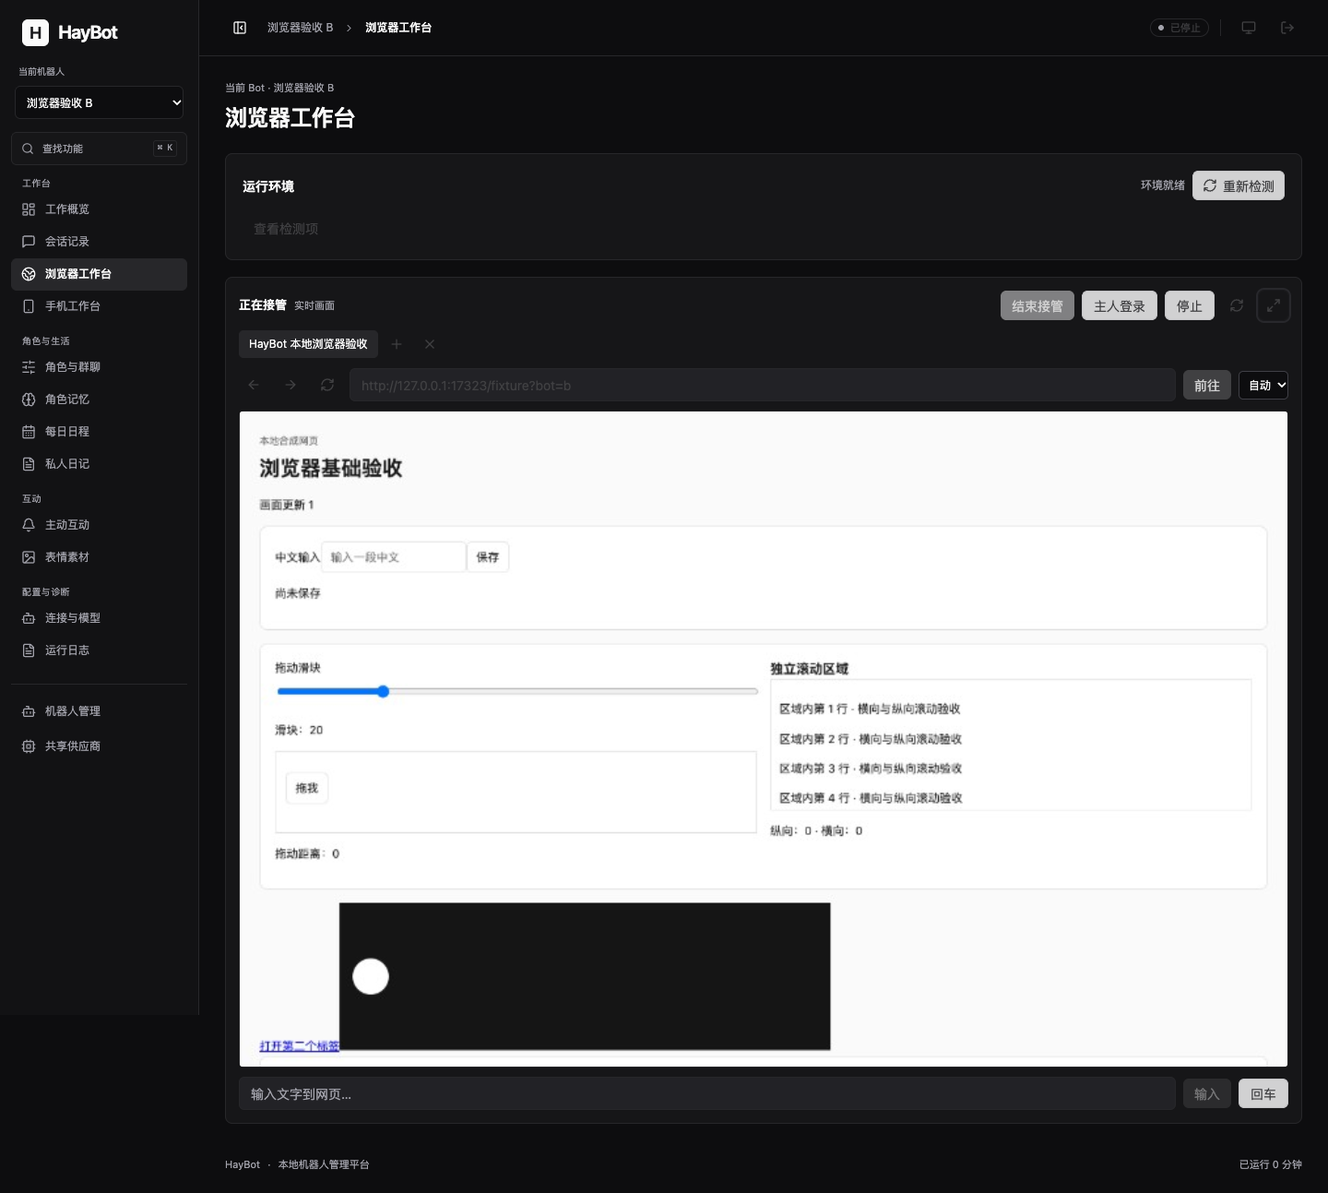
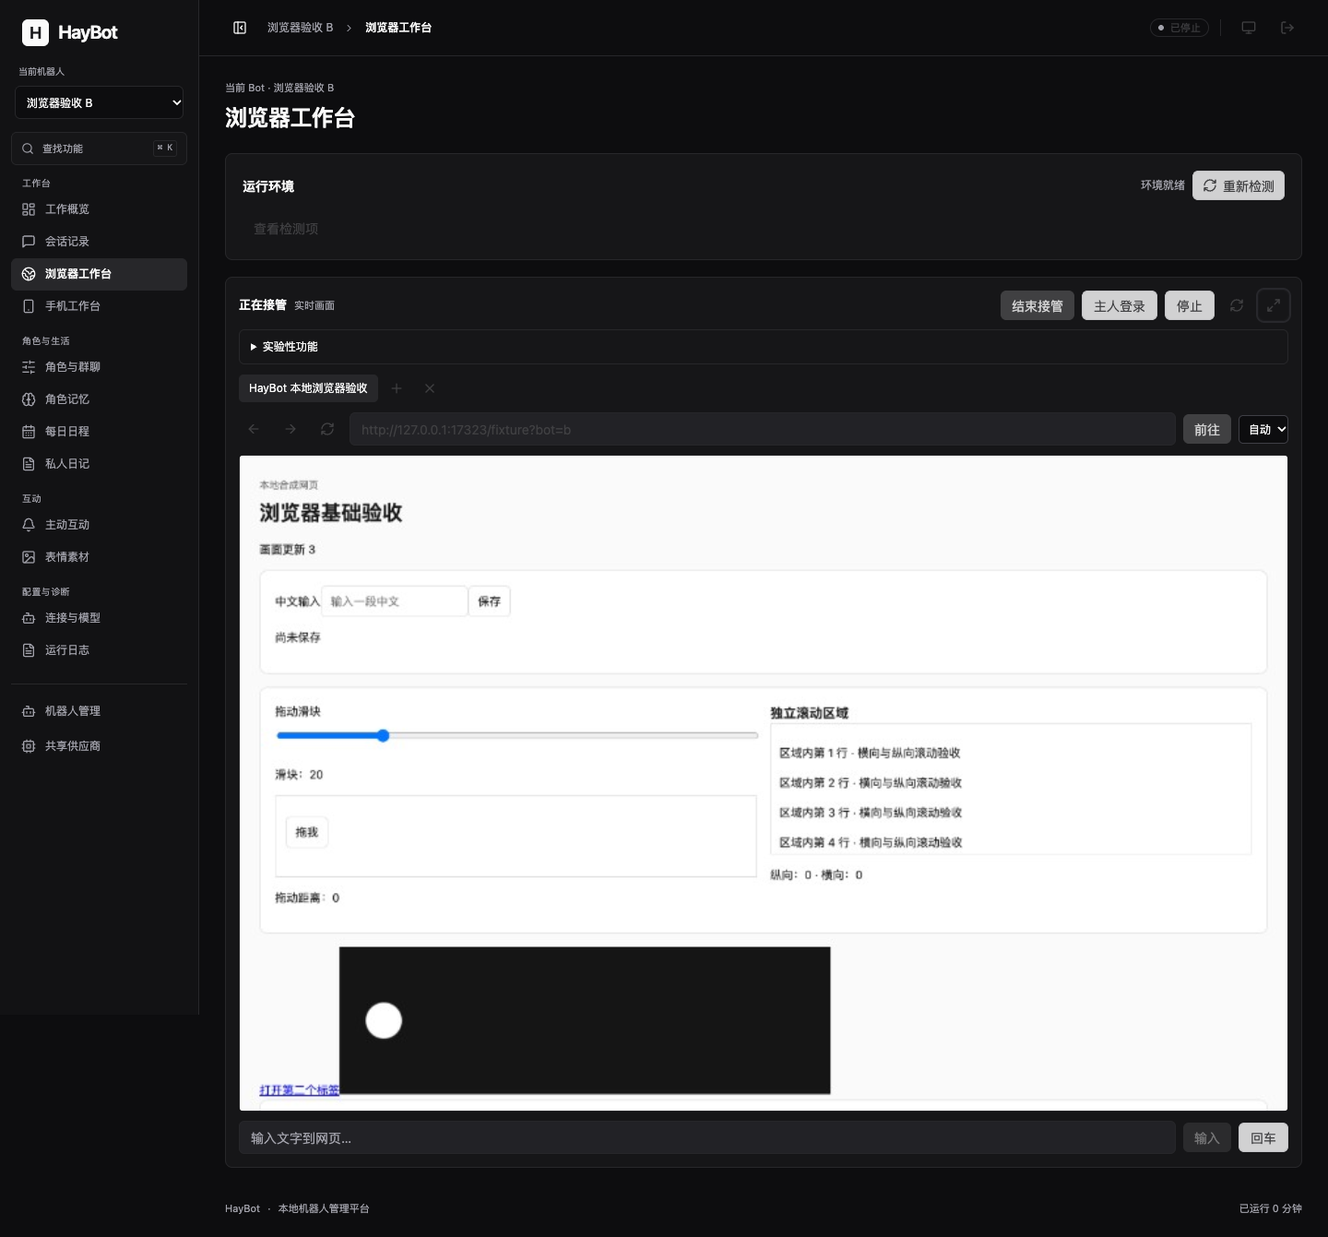
feat(browser): default to headed Chrome with experimental headless consent

diff --git a/frontend/src/BrowserViewer.jsx b/frontend/src/BrowserViewer.jsx
@@ -3,13 +3,14 @@ import { ArrowLeft, ArrowRight, Maximize2, Minimize2, Plus, RefreshCw, X } from 
 import { Dialog } from 'radix-ui'
 import { Button } from '@/components/ui/button'
 import { Input } from '@/components/ui/input'
+import { Switch } from '@/components/ui/switch'
 import { createBrowserSession } from './lib/browser-session'
 
 const initial = { state: { state: 'stopped', tabs: [] }, owned: false, busy: false, connected: false, canControl: false, stream: '浏览器已停止' }
 
 export default function BrowserViewer({ api, botId, ready, notify }) {
   const canvas = useRef(null), mode = useRef(null), controller = useRef(null), expandButton = useRef(null)
-  const [view, setView] = useState(initial), [expanded, setExpanded] = useState(false), [address, setAddress] = useState(''), [text, setText] = useState(''), [loginConfirm, setLoginConfirm] = useState(false)
+  const [view, setView] = useState(initial), [expanded, setExpanded] = useState(false), [address, setAddress] = useState(''), [text, setText] = useState(''), [loginConfirm, setLoginConfirm] = useState(false), [headlessConfirm, setHeadlessConfirm] = useState(false)
   const { state, owned, connected, canControl, busy, stream } = view
   const active = state.state !== 'stopped'
   useEffect(() => {
@@ -45,6 +46,12 @@ export default function BrowserViewer({ api, botId, ready, notify }) {
       <Button size="icon-sm" variant="ghost" disabled={busy || !active} aria-label="重新连接画面" onClick={() => controller.current.reconnect()}><RefreshCw size={15}/></Button>
       <Button ref={expandButton} size="icon-sm" variant="ghost" disabled={!active && !expanded} aria-label={expanded ? '收起画面' : '放大画面'} onClick={() => { controller.current.cancel(); setExpanded(v => !v) }}>{expanded ? <Minimize2 size={16}/> : <Maximize2 size={16}/>}</Button>
     </div></div>
+    <details className="browser-experiments"><summary>实验性功能{state.options?.headless ? ' · 无头模式已开启' : ''}</summary>
+      <div className="browser-experiment-option"><label htmlFor={`headless-${botId}`}>无头模式（headless）</label><Switch id={`headless-${botId}`} checked={!!state.options?.headless} disabled={busy || active} onCheckedChange={value => value ? setHeadlessConfirm(true) : controller.current.configure({ headless: false })}/></div>
+      <p>默认关闭，使用普通 Chrome，可能显示浏览器窗口及任务栏或 Dock 图标。开启后隐藏浏览器窗口；两种模式均保留实时查看、放大和接管。</p>
+      <p>无头模式可能导致网站访问异常、额外登录验证或风控拦截，不能保证解决小红书 300012。{active ? '请先停止浏览器，再切换模式。' : '设置按 Bot 保存，下次启动生效。'}切换保留登录资料，不自动更改 UA 或设备指纹。</p>
+    </details>
+    {state.access_issue?.code === '300012' && <div className="browser-access-issue" role="alert"><b>小红书访问异常 · 300012</b><p>{state.access_issue.message}</p><p>{state.options?.headless ? '当前已开启实验性无头模式，可停止浏览器后关闭该选项，再手动检查；切换模式不保证解除拦截。' : '当前已使用普通模式。请先排查网络或稍后再试，避免连续刷新和反复登录。'}</p></div>}
     {state.owner_login && <p className="browser-login-notice">登录隔离已开启。模型无法读取页面；关闭画面或停止浏览器后仍保持隔离，完成登录后请手动解除。</p>}
     <div className="browser-tabs" role="tablist" aria-label="浏览器标签页">{state.tabs.map(tab => <button type="button" key={tab.id} role="tab" aria-selected={tab.id === state.activeTab} disabled={!canControl} title={tab.url} onClick={() => act({ kind: 'switch_tab', target: tab.id })}>{tab.title}</button>)}<Button size="icon-sm" variant="ghost" aria-label="新建标签页" disabled={!canControl} onClick={() => act({ kind: 'new_tab' })}><Plus size={15}/></Button><Button size="icon-sm" variant="ghost" aria-label="关闭当前标签页" disabled={!canControl} onClick={() => act({ kind: 'close_tab' })}><X size={15}/></Button></div>
     <form className="browser-address" onSubmit={event => { event.preventDefault(); act({ kind: 'navigate', url: address }) }}>
@@ -55,5 +62,6 @@ export default function BrowserViewer({ api, botId, ready, notify }) {
     <div className="browser-screen-wrap"><canvas ref={canvas} className="browser-screen" width="1280" height="800" tabIndex={canControl ? 0 : -1} aria-label="远程浏览器画面，接管后可点击、拖动或滑动" onKeyDown={keydown} onCompositionEnd={event => { if (canControl && event.data) act({ kind: 'text', text: event.data }) }}/>{!active && <div className="browser-screen-empty">启动 Chrome 后显示实时画面</div>}</div>
     <form className="browser-typing" onSubmit={async event => { event.preventDefault(); const value = text; if (!value) return; if (await act({ kind: 'text', text: value })) setText(current => current === value ? '' : current) }}><Input aria-label="输入到网页" placeholder="输入文字到网页…" disabled={!canControl} maxLength={5000} value={text} onChange={event => setText(event.target.value)}/><Button size="sm" disabled={!canControl || !text}>输入</Button><Button type="button" size="sm" variant="outline" disabled={!canControl} onClick={() => act({ kind: 'key', key: 'Enter' })}>回车</Button></form>
     <Dialog.Root open={loginConfirm} onOpenChange={setLoginConfirm}><Dialog.Portal><Dialog.Overlay className="sheet-overlay"/><Dialog.Content className="provider-dialog"><Dialog.Title>完成主人登录？</Dialog.Title><Dialog.Description>请先离开密码、验证码等登录页面。确认后解除登录隔离；仍在接管时，模型继续暂停读取页面。</Dialog.Description><div className="dialog-actions"><Button variant="outline" onClick={() => setLoginConfirm(false)}>继续登录</Button><Button disabled={busy || !canControl} onClick={() => { setLoginConfirm(false); controller.current.login() }}>完成登录</Button></div></Dialog.Content></Dialog.Portal></Dialog.Root>
+    <Dialog.Root open={headlessConfirm} onOpenChange={setHeadlessConfirm}><Dialog.Portal><Dialog.Overlay className="sheet-overlay"/><Dialog.Content className="provider-dialog"><Dialog.Title>开启实验性无头模式？</Dialog.Title><Dialog.Description>浏览器窗口和 Dock／任务栏入口将隐藏，后台实时查看、放大和接管仍然可用。部分网站可能出现访问异常、额外登录验证或风控拦截；小红书可能仍返回 300012，甚至限制账号访问。此选项不保证通过网站检测，也不会自动修改 UA 或设备指纹。设置仅对当前 Bot 生效，下次启动应用，登录资料保留。</Dialog.Description><div className="dialog-actions"><Button variant="outline" onClick={() => setHeadlessConfirm(false)}>保持普通模式</Button><Button disabled={busy || active} onClick={() => { setHeadlessConfirm(false); controller.current.configure({ headless: true, acknowledgeHeadlessRisk: true }) }}>了解风险并开启</Button></div></Dialog.Content></Dialog.Portal></Dialog.Root>
   </section>
 }

diff --git a/frontend/src/browser.css b/frontend/src/browser.css
@@ -4,6 +4,7 @@
 .browser-viewer{border:1px solid var(--border);border-radius:8px;background:var(--card);padding:14px;min-width:0;display:flex;flex-direction:column;gap:10px}
 .browser-heading,.browser-heading>div,.browser-address,.browser-typing{display:flex;align-items:center;gap:8px;min-width:0}.browser-heading{justify-content:space-between;flex-wrap:wrap}.browser-heading b{font-size:13px}.browser-heading span{font-size:11px;color:var(--muted-foreground)}.browser-heading>div{flex-wrap:wrap}
 .browser-login-notice{font-size:12px;padding:10px 12px;margin:0;background:var(--muted);border:1px solid var(--border);border-radius:6px}
+.browser-experiments{font-size:12px;border:1px solid var(--border);border-radius:6px;padding:9px 12px}.browser-experiments summary{cursor:pointer}.browser-experiments p,.browser-access-issue p{margin:8px 0 0;line-height:1.6;color:var(--muted-foreground)}.browser-experiment-option{display:flex;align-items:center;justify-content:space-between;gap:12px;margin-top:12px}.browser-access-issue{font-size:12px;border:1px solid var(--destructive);border-radius:6px;padding:10px 12px}.browser-access-issue b{color:var(--destructive)}
 .browser-tabs{display:flex;align-items:center;gap:4px;overflow-x:auto;min-height:32px}.browser-tabs>[role=tab]{background:transparent;border:1px solid transparent;border-radius:5px;max-width:210px;padding:5px 10px;white-space:nowrap;overflow:hidden;text-overflow:ellipsis;font-size:12px;flex-shrink:0}.browser-tabs>[aria-selected=true]{background:var(--accent);border-color:var(--border)}.browser-tabs>[role=tab]:disabled{cursor:default}
 .browser-address input,.browser-typing input{flex:1;min-width:0}.browser-address select{font-size:12px;background:var(--background);border:1px solid var(--input);border-radius:5px;padding:6px}
 .browser-screen-wrap{position:relative;min-height:0;overflow:hidden;background:#111;border-radius:6px}.browser-screen{display:block;width:100%;max-height:65dvh;object-fit:contain;border:1px solid var(--border);background:#111;touch-action:none;user-select:none;outline-offset:-3px;cursor:grab}.browser-screen.dragging{cursor:grabbing}.browser-screen-empty{position:absolute;inset:0;display:grid;place-items:center;color:#a1a1aa;font-size:13px;pointer-events:none}

diff --git a/frontend/src/lib/browser-session.js b/frontend/src/lib/browser-session.js
@@ -95,6 +95,9 @@ export function createBrowserSession({ api, botId, canvas, mode, change, report 
     open: () => run(refresh),
     setReady(value) { ready = value; if (!ready) input.cancel(); notify() },
     start: () => run(async () => { state = await api('/browser/start', 'POST', {}); if (!disposed) connect() }),
+    configure: options => run(async () => {
+      apply(await api('/browser/settings', 'POST', options))
+    }),
     stop: () => run(async () => { apply(await api('/browser/stop', 'POST', {})); lease = null; clearFrame() }),
     reconnect: () => run(async () => { ++epoch; socket?.close(); lease = null; connected = false; clearFrame(); await refresh() }),
     claim: () => run(async () => {

diff --git a/backend/tests/test_browser.py b/backend/tests/test_browser.py
@@ -94,6 +94,28 @@ def test_browser_rejects_cross_bot_controls_and_malformed_identity(client):
         service.viewers.clear()
 
 
+def test_browser_settings_are_authorized_strict_and_scoped_to_catalog_bot(client):
+    c = client
+    assert c.post('/api/bots/default/browser/settings', json={'headless': False}).status_code == 401
+    login(c)
+    seen = []
+
+    def handler(request):
+        seen.append((request.url.path, json.loads(request.content)))
+        return httpx.Response(200, json={'state': 'stopped', 'options': {'headless': True}})
+
+    mock_gateway(c, handler)
+    assert c.post('/api/bots/default/browser/settings', json={'headless': True}).status_code == 400
+    assert c.post('/api/bots/default/browser/settings', json={'headless': 'false'}).status_code == 422
+    assert c.post('/api/bots/default/browser/settings', json={'headless': False, 'args': []}).status_code == 422
+    assert c.post('/api/bots/default/browser/settings', json={'headless': False}, headers={'origin': 'http://evil.test'}).status_code == 403
+    assert c.post('/api/bots/missing/browser/settings', json={'headless': False}).status_code == 404
+    assert not seen
+    result = c.post('/api/bots/default/browser/settings', json={'headless': True, 'acknowledgeHeadlessRisk': True})
+    assert result.status_code == 200
+    assert seen == [('/api/sessions/bot-default/settings', {'headless': True, 'acknowledgeHeadlessRisk': True})]
+
+
 @contextmanager
 def host_socket():
     started, finished, stop = threading.Event(), threading.Event(), threading.Event()

diff --git a/backend/app/browser_routes.py b/backend/app/browser_routes.py
@@ -19,6 +19,11 @@ class ControlBody(ViewerBody):
     lease: str = Field(min_length=1, max_length=64)
 
 
+class BrowserSettingsBody(StrictModel):
+    headless: bool = Field(strict=True)
+    acknowledgeHeadlessRisk: bool = Field(default=False, strict=True)
+
+
 def register_browser_routes(app, scoped_runtime):
     def service():
         return app.state.browser
@@ -39,6 +44,15 @@ def register_browser_routes(app, scoped_runtime):
     @app.api_route('/api/bots/{bot_id}/browser/environment', methods=['GET', 'POST'])
     async def environment(request: Request, runtime=Depends(scoped_runtime)):
         return await service().gateway.request(request.method, '/api/environment')
+
+    @app.post('/api/bots/{bot_id}/browser/settings')
+    async def settings(body: BrowserSettingsBody, request: Request, runtime=Depends(scoped_runtime)):
+        s = service()
+        async with s.lock(runtime.id):
+            authorization(request, runtime)
+            if body.headless and not body.acknowledgeHeadlessRisk:
+                raise HTTPException(400, '开启实验性无头模式前，请确认访问异常、登录验证及风控拦截等风险')
+            return await s.gateway.request('POST', s.path(runtime.id) + '/settings', body.model_dump())
 
     @app.post('/api/bots/{bot_id}/browser/{operation}')
     async def lifecycle(operation: str, request: Request, runtime=Depends(scoped_runtime)):

diff --git a/browser_runtime/README.md b/browser_runtime/README.md
@@ -1,6 +1,6 @@
 # 浏览器运行时原型
 
-独立宿主服务，支持 Google Chrome 隐藏运行、持久化资料、实时画面和人工接管。已接入 HayBot 后台的登录、Bot 工作台和 HTTP/WebSocket 中继；模型任务循环与 QQ 浏览器指令仍在后续阶段。安卓工作台暂时保留。
+独立宿主服务，支持 Google Chrome 普通/无头运行、持久化资料、实时画面和人工接管。默认使用普通模式（`headless: false`）。已接入 HayBot 后台的登录、Bot 工作台和 HTTP/WebSocket 中继；模型任务循环与 QQ 浏览器指令仍在后续阶段。安卓工作台暂时保留。
 
 当前实现和实机验收范围为 **macOS arm64**。macOS Intel 有架构检查分支，未实测；Windows/Linux 只有安装路径发现，身份和启动流程尚未实现，会阻断启动。
 
@@ -49,6 +49,16 @@ BROWSER_RUNTIME_TOKEN=填写本机.browser-runtime/token的内容
 
 每个已登记且未归档的 Bot 固定使用 `bot-{bot_id}` 会话和独立持久化资料，客户端不能另选 sessionId。画面连接、租约和操作均绑定同一个 Bot 及当前管理登录；页面断开或退出登录会撤销控制。归档 Bot 时先停止对应浏览器，资料保留。
 
+### 普通模式与实验性无头模式
+
+2026-10-29 按用户最新要求，普通模式为默认值：`headless: false`，可能显示 Chrome 窗口、Dock/任务栏入口。此前原型中的“始终隐藏”约束不再适用于默认模式。已有会话不热切换，新代码启动会话时读取当前 Bot 的设置；没有显式设置的旧资料也默认普通模式。
+
+正式工作台的“实验性功能 → 无头模式（headless）”允许选择 `headless: true`。开启前弹窗明确说明：隐藏浏览器窗口，但可能发生网站访问异常、额外登录验证、风控或账号访问受限，不保证解决小红书 300012。取消弹窗不保存；确认后才发送 `acknowledgeHeadlessRisk: true`，后端和宿主均校验。两种模式共用实时帧与接管通路，均支持放大、点击、滚动、拖动及输入。
+
+设置只在停止状态可修改，按 Bot 保存在私有 `settings/{sessionId}.json`，下次启动生效；不强制重启当前会话。同一个 Bot 始终使用原来的持久化资料和登录隔离标记，不清除 Cookie。不同 Bot 设置互不影响。环境检测的短暂启动探针仍使用无头模式，普通模式真实启动失败时不会静默回退无头模式。
+
+小红书域名的错误 URL `error_code=300012` 或错误页面文字会显示访问异常提示，建议停止自动重试、在普通 Chrome 检查同一网络。无头模式额外提示可停用后手动检查；普通模式提示排查网络或稍后再试。提示只表示观测到错误，不能确定是 IP、账号还是浏览器特征导致；不会自动更改 UA、加 stealth 或伪造指纹，不自动重试。模型观察遇到此错误返回 `site_access_blocked`；当前尚无自主浏览器任务循环或 QQ 错误通知。
+
 “主人登录”必须先接管。开启后阻断 ARIA/模型观察，手动画面仍可使用；退出接管、关闭页面、停止或重启浏览器都不会自动解除隔离。请离开密码/验证码页面后点击“完成登录”，确认解除。接管期间也阻断模型观察，观察过程中发生接管或页面变化会丢弃已捕获结果。此阶段没有模型/QQ 读取截图的入口。
 
 ## 接口与边界
@@ -62,6 +72,7 @@ BROWSER_RUNTIME_TOKEN=填写本机.browser-runtime/token的内容
 | `GET/POST /api/environment` | 缓存检测/主动重新检测 |
 | `GET /api/sessions/{id}` | 会话状态、标签与画面版本 |
 | `POST /api/sessions/{id}/start`、`stop` | 幂等启动/停止 |
+| `GET/POST /api/sessions/{id}/settings` | 读取/保存启动模式，仅停止时保存；无头模式需显式风险确认 |
 | `POST /api/sessions/{id}/claim`、`release` | 绑定实时连接的操作租约 |
 | `POST /api/sessions/{id}/action` | 有限的导航、标签、坐标、滚动、pointer 手势和文字/按键操作 |
 | `GET /api/sessions/{id}/observe` | 当前页有限长度 ARIA 快照 |

diff --git a/design/browser-runtime-20261028/MODES.md b/design/browser-runtime-20261028/MODES.md
@@ -1,0 +1,27 @@
+# 浏览器启动模式
+
+2026-10-29，按用户最新方案：默认 `headless: false`，`headless: true` 放在实验性功能中。本文取代早期“所有会话始终隐藏”的要求。
+
+## 行为
+
+- 默认普通模式，可能显示窗口和 Dock/任务栏图标。独立 Bot 资料保留，不读取个人 Chrome 资料。
+- “实验性功能 → 无头模式（headless）”开启时先显示风险弹窗：可能出现网站访问异常、额外登录验证、风控或账号访问受限；不能保证解决小红书 300012。取消不保存，明确确认后才保存。
+- 两种模式均使用相同的实时采集和接管接口，保留放大、文字、拖动、滑动等功能。
+- 按 Bot 保存；停止状态才允许修改，下次启动生效。运行中和启动/停止/保存并发时后端拒绝切换，不主动重启会话。使用同一份资料和登录隔离标记。
+- 普通模式启动失败时不会悄悄回退无头模式。环境检测用临时资料完成短暂隐藏启动探针，不访问平台。
+- 小红书 `error_code=300012` 或错误页文本会提示网络出口可能受限，建议停止自动重试、用普通 Chrome 检查同一网络。无头模式额外提示可停止后关闭该选项。错误原因不作确定判断，不自动修改 UA、启用 stealth 或伪造指纹，也不自动刷新。
+- `observe` 遇到该错误返回 `site_access_blocked`，供后续任务循环接入。目前没有浏览器自主任务或 QQ 错误通知。
+
+## 本轮验证
+
+macOS arm64、Node 22.23.4、Google Chrome 156.0.8078.73。全部使用隔离资料与合成页面；小红书错误页通过 Playwright 路由本地响应模拟，没有用真实账号验证风控解除。
+
+| 检查 | 结果 |
+| --- | --- |
+| 浏览器单元/API | 18 项通过：默认值、明确确认、持久化、Bot 隔离、参数限制、启动竞争、300012 域名限制以及原有输入/鉴权/登录隔离 |
+| 后台浏览器/多 Bot/应用回归 | 26 项通过：新增设置的鉴权、来源、布尔类型、风险确认与固定 Bot 映射 |
+| 前端原有回归及构建 | 18 项通过，构建成功；已有 jmuxer 与包体积提示保留 |
+| 真实 Chrome 集成 | 3 项通过：两种模式的 JPEG 实时画面、拖动、中文输入、资料保留、登录隔离、模拟 300012；另含既有隐藏进程与完整手势测试 |
+| 正式工作台端到端 | 1 项通过：默认普通模式→接管与拖动→取消风险弹窗不保存→确认开启→刷新保留设置→无头模式接管与拖动→同资料保留→另一 Bot 默认普通模式；继续覆盖登录隔离、放大、主题、窄屏与退出撤销 |
+
+端到端使用临时容器 `haybot-headless-mode-validation`（18081）和临时宿主（17323），未改动线上 8080。测试结束清理容器、临时凭证、浏览器进程和资料。

diff --git a/design/browser-runtime-20261028/ACCEPTANCE.md b/design/browser-runtime-20261028/ACCEPTANCE.md
@@ -4,6 +4,8 @@
 
 2026-10-29 补充：Google Chrome 唯一浏览器；页面进入自动检测环境，缺失时提醒安装，官网入口固定为 `https://www.google.cn/chrome/`。安装由用户点击触发，取代进入页面即静默安装。
 
+2026-10-29 后续调整：默认普通模式 `headless: false`，窗口/Dock/任务栏允许显示；`headless: true` 是需显式风险确认的实验选项。P02 的隐藏断言只适用于选择无头模式的会话。两种模式均必须保留实时查看、接管、放大与手势。另需验收取消风险弹窗不保存、同 Bot 切换保留资料、不同 Bot 模式隔离以及运行中拒绝修改。
+
 ## Chrome 前置条件
 
 只支持官方 Google Chrome 稳定版，所有浏览器会话启动和任务受此条件约束。当前开发机有 Chrome，缺失与安装失败场景用隔离测试环境验证，不卸载用户现有 Chrome。完整平台及异常矩阵尚未完成。

diff --git a/design/browser-runtime-20261028/RESEARCH.md b/design/browser-runtime-20261028/RESEARCH.md
@@ -4,6 +4,8 @@
 
 2026-10-29 补充：仅支持 Google Chrome；进入浏览器运行时页面自动检测环境，缺失时提醒安装，安装入口固定为 `https://www.google.cn/chrome/`。取代此前“进入后直接自动安装”的流程；仍保留用户主动触发的辅助安装作为实现候选。
 
+2026-10-29 后续产品调整：默认改为普通模式 `headless: false`，允许显示窗口和 Dock/任务栏图标；无头模式作为需明确风险确认的实验性选项。两种模式均保留实时查看与接管。下文“日常必须隐藏”等条目为早期研究要求，由此调整取代；实际行为见运行时 README。
+
 安卓基线：`feature/android-runtime`，提交 `5c864e1`，已推送 GitHub。
 浏览器工作分支：`feature/browser-runtime`，从上述基线继续。
 

diff --git a/design/browser-runtime-20261028/WORKBENCH.md b/design/browser-runtime-20261028/WORKBENCH.md
@@ -2,6 +2,8 @@
 
 2026-10-29，`feature/browser-runtime`，在原项目 `/Volumes/Samsung2T/PJFiles/hayqqbot` 开发。磁盘短暂离线期间创建的临时恢复副本已不存在；实际改动和验收都在原项目进行。
 
+同日后续新增普通模式默认值和实验性 headless 开关，最新行为与新增验收见 [MODES.md](MODES.md)。下方数字记录工作台首次接入时的验证。
+
 ## 实现范围
 
 - 新增后台 `/api/bots/{bot_id}/browser` 状态、环境、生命周期、控制、登录隔离和只读 live 接口。
